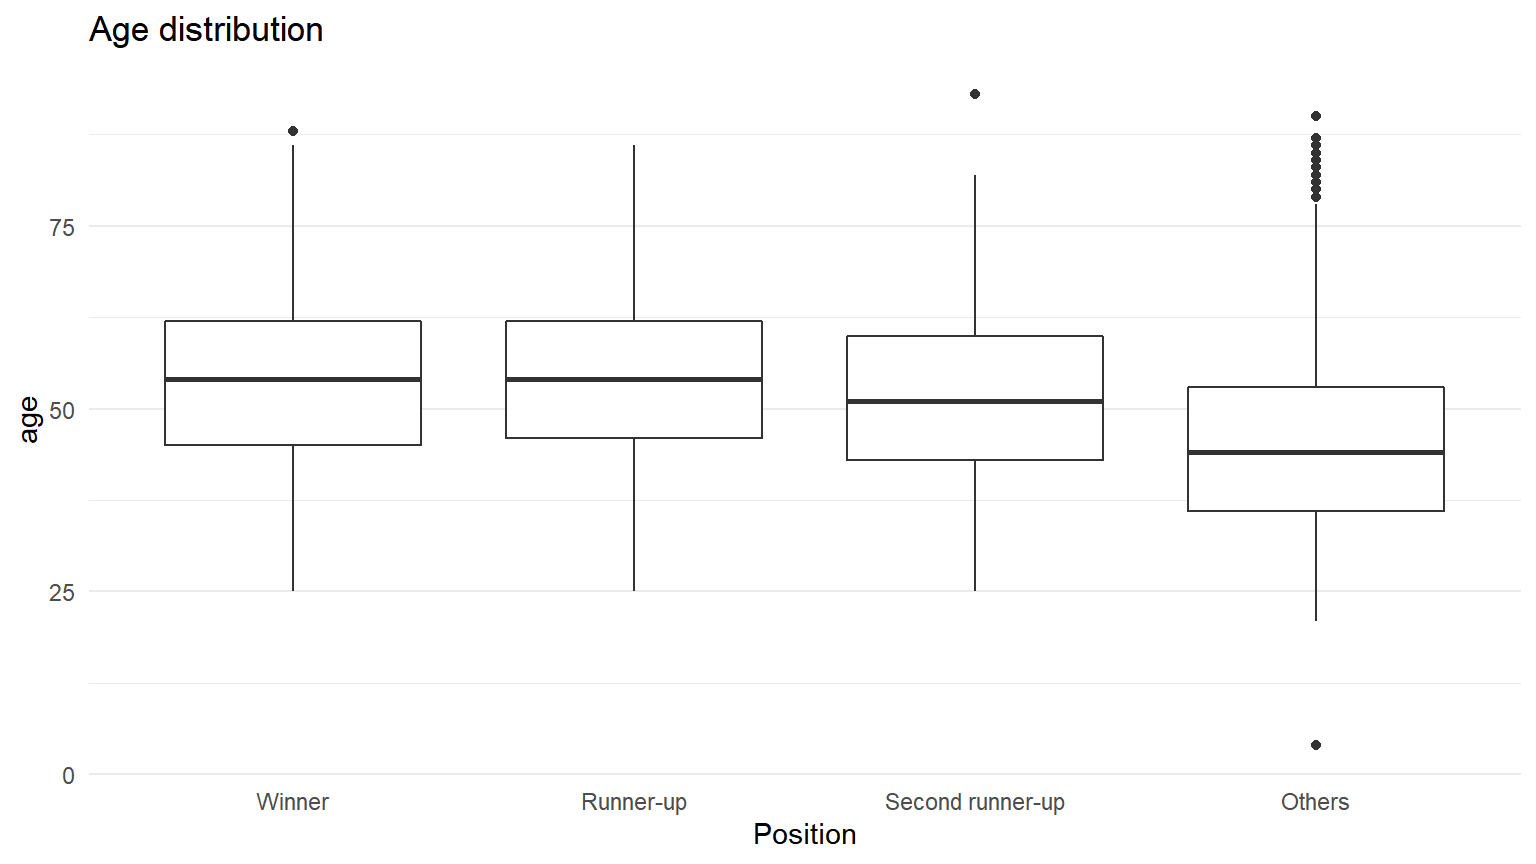
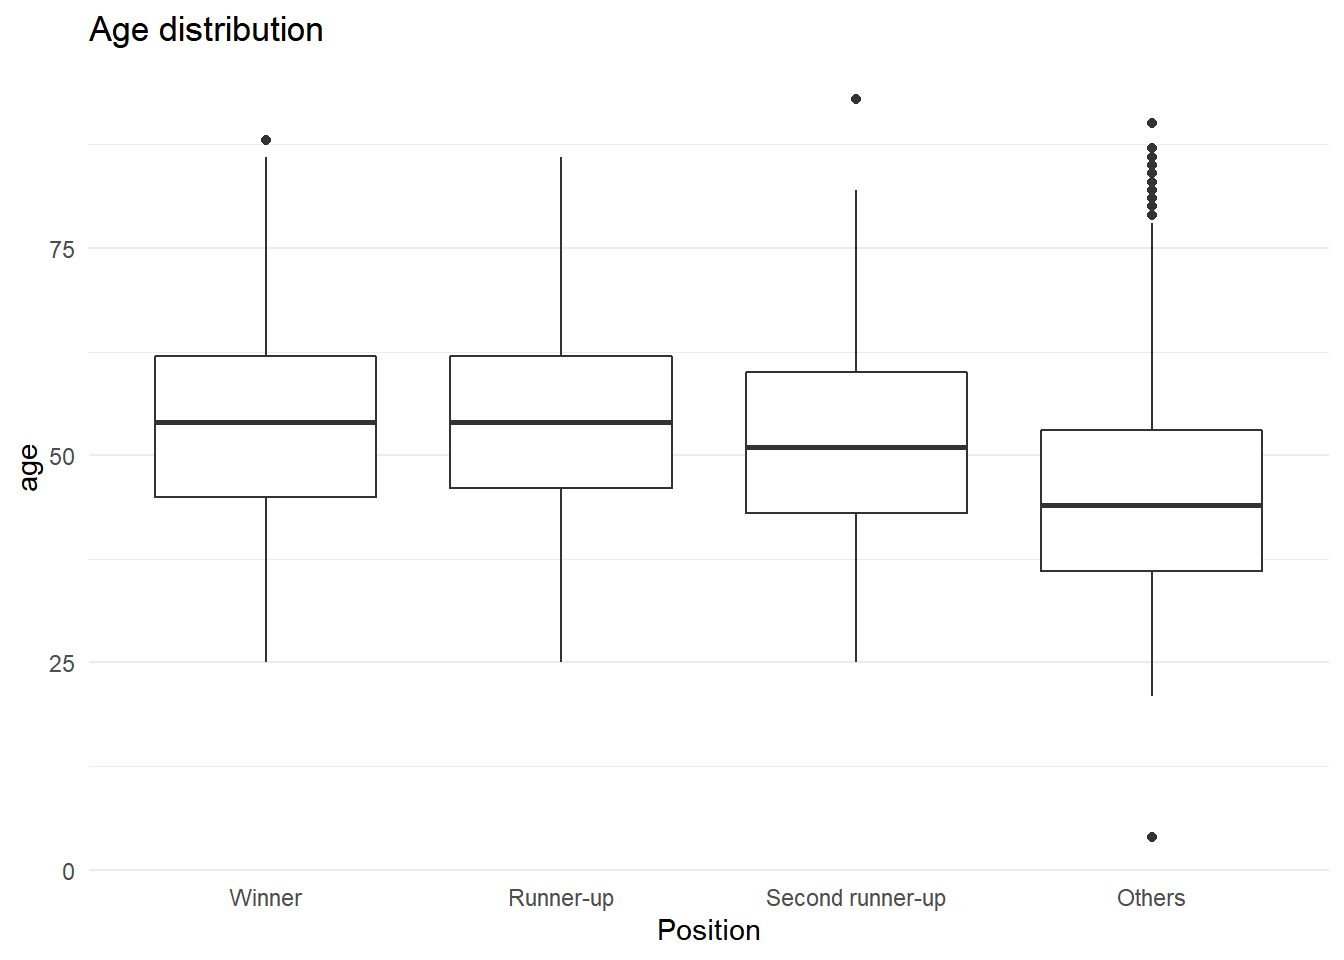
updated the figure size

diff --git a/content/post/adr-analysis.html b/content/post/adr-analysis.html
@@ -24,30 +24,30 @@ editor_options:
 </div>
 <div id="age" class="section level2">
 <h2>Age</h2>
-<p><img src="/post/adr-analysis_files/figure-html/unnamed-chunk-2-1.png" width="768" /></p>
+<p><img src="/post/adr-analysis_files/figure-html/unnamed-chunk-2-1.png" width="672" /></p>
 <hr />
-<p><img src="/post/adr-analysis_files/figure-html/unnamed-chunk-3-1.png" width="768" /></p>
+<p><img src="/post/adr-analysis_files/figure-html/unnamed-chunk-3-1.png" width="672" /></p>
 <hr />
-<p><img src="/post/adr-analysis_files/figure-html/unnamed-chunk-4-1.png" width="768" /></p>
+<p><img src="/post/adr-analysis_files/figure-html/unnamed-chunk-4-1.png" width="672" /></p>
 <hr />
 </div>
 <div id="education" class="section level2">
 <h2>Education</h2>
-<p><img src="/post/adr-analysis_files/figure-html/unnamed-chunk-6-1.png" width="768" /></p>
+<p><img src="/post/adr-analysis_files/figure-html/unnamed-chunk-6-1.png" width="672" /></p>
 <hr />
-<p><img src="/post/adr-analysis_files/figure-html/unnamed-chunk-7-1.png" width="768" /></p>
+<p><img src="/post/adr-analysis_files/figure-html/unnamed-chunk-7-1.png" width="672" /></p>
 <hr />
 </div>
 <div id="wealth" class="section level2">
 <h2>Wealth</h2>
-<p><img src="/post/adr-analysis_files/figure-html/unnamed-chunk-8-1.png" width="768" /></p>
+<p><img src="/post/adr-analysis_files/figure-html/unnamed-chunk-8-1.png" width="672" /></p>
 <hr />
-<p><img src="/post/adr-analysis_files/figure-html/unnamed-chunk-9-1.png" width="768" /></p>
+<p><img src="/post/adr-analysis_files/figure-html/unnamed-chunk-9-1.png" width="672" /></p>
 <hr />
 </div>
 <div id="criminality" class="section level2">
 <h2>Criminality</h2>
-<p><img src="/post/adr-analysis_files/figure-html/unnamed-chunk-10-1.png" width="768" /></p>
+<p><img src="/post/adr-analysis_files/figure-html/unnamed-chunk-10-1.png" width="672" /></p>
 <hr />
-<p><img src="/post/adr-analysis_files/figure-html/unnamed-chunk-11-1.png" width="768" /></p>
+<p><img src="/post/adr-analysis_files/figure-html/unnamed-chunk-11-1.png" width="672" /></p>
 </div>
